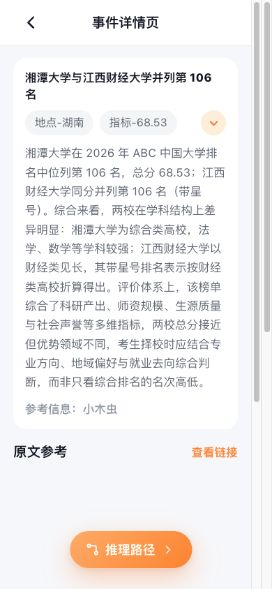
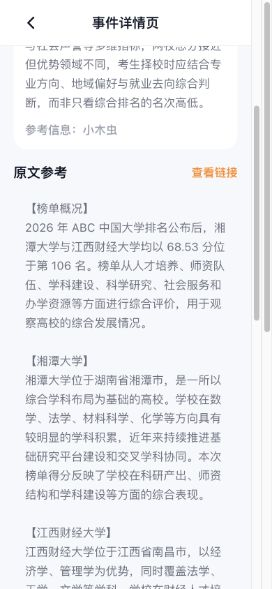
feat: 补充事件原文参考内容

diff --git a/src/prototype.js b/src/prototype.js
@@ -1277,7 +1277,17 @@ export function initializePrototype() {
       /* ── 搜索结果 ── */
       function buildResultEvents() {
         return [
-          { id: 'r1', title: '湘潭大学与江西财经大学并列第 106 名', summary: '湘潭大学在 2026 年 ABC 中国大学排名中位列第 106 名，总分 68.53；江西财经大学同分并列第 106 名（带星号）。综合来看，两校在学科结构上差异明显：湘潭大学为综合类高校，法学、数学等学科较强；江西财经大学以财经类见长，其带星号排名表示按财经类高校折算得出。评价体系上，该榜单综合了科研产出、师资规模、生源质量与社会声誉等多维指标，两校总分接近但优势领域不同，考生择校时应结合专业方向、地域偏好与就业去向综合判断，而非只看综合排名的名次高低。', source: '小木虫', avatar: '木', time: '01-23 12:40', tags: ['地点-湖南', '指标-68.53', '话题-综合类'], reference: '数据来源：ABC 排名官微、中国大学排行榜（CNUR）网站。\n湘潭大学：综合类，湖南省湘潭市，总分 68.53，位列第 106 名。\n江西财经大学：财经类，江西省南昌市，总分 68.53，并列第 106 名（带星号）。\n星号说明：带星号表示该校排名为按其所属类别（财经类）折算后的参考排名，与综合类高校不完全可比。\n指标构成：综合得分由科研（论文、项目、奖项）、师资（规模与结构）、生源（录取分数）、声誉（学界与用人单位评价）等维度加权得出。\n更新时间：2026 年 1 月发布，数据以当年官方公示为准。\n备注：不同榜单口径存在差异，建议交叉核对多个来源后再做结论。', link: 'https://example.com/rank' },
+          {
+            id: 'r1',
+            title: '湘潭大学与江西财经大学并列第 106 名',
+            summary: '湘潭大学在 2026 年 ABC 中国大学排名中位列第 106 名，总分 68.53；江西财经大学同分并列第 106 名（带星号）。综合来看，两校在学科结构上差异明显：湘潭大学为综合类高校，法学、数学等学科较强；江西财经大学以财经类见长，其带星号排名表示按财经类高校折算得出。评价体系上，该榜单综合了科研产出、师资规模、生源质量与社会声誉等多维指标，两校总分接近但优势领域不同，考生择校时应结合专业方向、地域偏好与就业去向综合判断，而非只看综合排名的名次高低。',
+            source: '小木虫',
+            avatar: '木',
+            time: '01-23 12:40',
+            tags: ['地点-湖南', '指标-68.53', '话题-综合类'],
+            reference: '【榜单概况】\n2026 年 ABC 中国大学排名公布后，湘潭大学与江西财经大学均以 68.53 分位于第 106 名。榜单从人才培养、师资队伍、学科建设、科学研究、社会服务和办学资源等方面进行综合评价，用于观察高校的综合发展情况。\n\n【湘潭大学】\n湘潭大学位于湖南省湘潭市，是一所以综合学科布局为基础的高校。学校在数学、法学、材料科学、化学等方向具有较明显的学科积累，近年来持续推进基础研究平台建设和交叉学科协同。本次榜单得分反映了学校在科研产出、师资结构和学科建设等方面的综合表现。\n\n【江西财经大学】\n江西财经大学位于江西省南昌市，以经济学、管理学为优势，同时覆盖法学、工学、文学等学科。学校在财经人才培养、应用经济研究和政产学合作方面具有较强特色。榜单中的星号表示该名次结合财经类高校的分类评价结果进行折算，适合用于同类型高校之间的参考比较。\n\n【分数与名次说明】\n两校总分相同，并不代表各项指标表现完全一致。湘潭大学的优势更集中在综合性学科和基础研究，江西财经大学的优势则更多体现在财经类专业、行业影响力和应用研究。综合名次只能反映多项指标加权后的结果，不能替代专业维度的比较。\n\n【评价指标说明】\n综合得分主要参考科研项目与成果、师资规模与结构、人才培养质量、生源情况、学科平台、社会声誉及服务贡献等指标。不同榜单在指标口径、权重和数据周期上可能存在差异，因此相同学校在不同榜单中的位次可能有所变化。\n\n【参考建议】\n如果用于择校，应继续比较目标专业实力、培养方案、所在城市、升学与就业去向等信息；如果用于学校综合对比，建议同时查看官方学科评估、学校年度报告及多个榜单结果，避免仅依据单一名次作出判断。\n\n数据来源：ABC 排名官微、中国大学排行榜（CNUR）网站公开信息整理。更新时间：2026 年 1 月；最终内容以发布方公示为准。',
+            link: 'https://example.com/rank'
+          },
           { id: 'r2', title: '湘潭理工学院概况与发展历程', summary: '湘潭理工学院地处湘潭市九华经开区，是湖南省首个完成独立学院转设的民办本科高校，前身为湖南工商大学北津学院。', source: '募格学术', avatar: '募', time: '04-24 12:23', tags: ['地点-湖南', '类型-民办本科'], reference: '湘潭理工学院：2018 年完成转设，人社部博士后科研工作站联合培养单位。', link: '#' },
           { id: 'r3', title: '湘潭大学法学学部学科评估获 B+', summary: '法学学部历史悠久，拥有本硕博完整培养体系及博士后流动站，学科评估获 B+，师资规模居省内前列。', source: '考研帮', avatar: '研', time: '03-11 09:12', tags: ['学科-法学', '评估-B+'], reference: '法学学部：本硕博 + 博士后流动站，与最高检共建检察公益诉讼研究基地。', link: '#' },
           { id: 'r4', title: '2026 博士研究生招生简章发布', summary: '学校发布 2026 年博士研究生招生简章及多个暑期学校项目，研究生招生与培养工作稳步推进。', source: '研招网', avatar: '招', time: '02-28 15:40', tags: ['时间-2026', '类型-招生'], reference: '2026 博士招生简章：多学科招生，含暑期学校项目。', link: '#' },

diff --git a/src/styles.css b/src/styles.css
@@ -4382,7 +4382,7 @@
       font-size: 12px;
       line-height: 1.65;
       white-space: pre-wrap;
-      opacity: 0;
+      opacity: 1;
     }
     .event-detail-refinfo {
       margin-top: 10px;